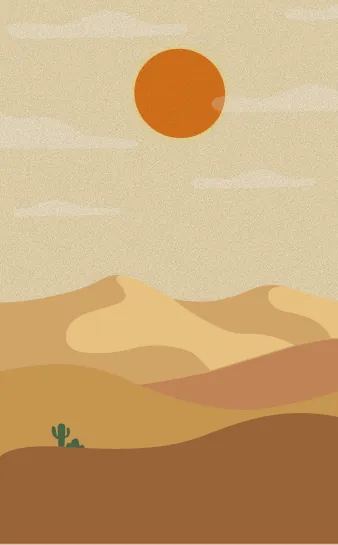
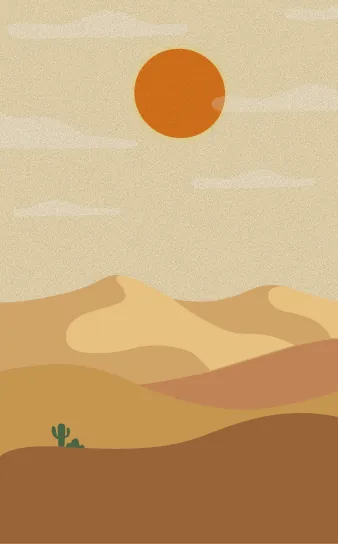
Normalize preset WebPs to 338x544 opaque VP8 and bump cache-buster

Changed region(s): [[0.0, 0.9688, 1.0, 1.0]]

diff --git a/presets.html b/presets.html
@@ -64,7 +64,7 @@
     <div class="preset-deck" role="group" aria-label="Lima preset Temaram">
       <button type="button" class="preset-poster-card is-active" data-preset-card="mystic-sanctum" aria-pressed="true" style="--preset-glow:#E09648;">
         <span class="preset-poster-frame">
-          <img src="assets/preset-art-mystic-sanctum.webp" alt="Mystic Sanctum" width="338" height="545" fetchpriority="high" decoding="async">
+          <img src="assets/preset-art-mystic-sanctum.webp?v=2" alt="Mystic Sanctum" width="338" height="544" fetchpriority="high" decoding="async">
         </span>
         <span class="preset-poster-meta">
           <span class="preset-poster-cat"><span class="preset-swatch" style="--preset-glow:#E09648;" aria-hidden="true"></span><span data-card-kicker>Relaksasi</span></span>
@@ -74,7 +74,7 @@
 
       <button type="button" class="preset-poster-card" data-preset-card="amber-study" aria-pressed="false" style="--preset-glow:#E6A45C;">
         <span class="preset-poster-frame">
-          <img src="assets/preset-art-amber-study.webp" alt="The Amber Study" width="338" height="545" decoding="async">
+          <img src="assets/preset-art-amber-study.webp?v=2" alt="The Amber Study" width="338" height="544" decoding="async">
         </span>
         <span class="preset-poster-meta">
           <span class="preset-poster-cat"><span class="preset-swatch" style="--preset-glow:#E6A45C;" aria-hidden="true"></span><span data-card-kicker>Fokus</span></span>
@@ -84,7 +84,7 @@
 
       <button type="button" class="preset-poster-card" data-preset-card="gentle-flow" aria-pressed="false" style="--preset-glow:#E08A3C;">
         <span class="preset-poster-frame">
-          <img src="assets/preset-art-gentle-flow.webp" alt="The Gentle Flow" width="338" height="544" decoding="async">
+          <img src="assets/preset-art-gentle-flow.webp?v=2" alt="The Gentle Flow" width="338" height="544" decoding="async">
         </span>
         <span class="preset-poster-meta">
           <span class="preset-poster-cat"><span class="preset-swatch" style="--preset-glow:#E08A3C;" aria-hidden="true"></span><span data-card-kicker>Tidur</span></span>
@@ -94,7 +94,7 @@
 
       <button type="button" class="preset-poster-card" data-preset-card="midnight-retouch" aria-pressed="false" style="--preset-glow:#F2C98A;">
         <span class="preset-poster-frame">
-          <img src="assets/preset-art-midnight-retouch.webp" alt="The Midnight Retouch" width="338" height="544" decoding="async">
+          <img src="assets/preset-art-midnight-retouch.webp?v=2" alt="The Midnight Retouch" width="338" height="544" decoding="async">
         </span>
         <span class="preset-poster-meta">
           <span class="preset-poster-cat"><span class="preset-swatch" style="--preset-glow:#F2C98A;" aria-hidden="true"></span><span data-card-kicker>Perawatan Diri</span></span>
@@ -104,7 +104,7 @@
 
       <button type="button" class="preset-poster-card" data-preset-card="under-the-sea" aria-pressed="false" style="--preset-glow:#1FA8D6;">
         <span class="preset-poster-frame">
-          <img src="assets/preset-art-under-the-sea.webp" alt="Under the Sea (Tifosi Edition)" width="339" height="544" decoding="async">
+          <img src="assets/preset-art-under-the-sea.webp?v=2" alt="Under the Sea (Tifosi Edition)" width="338" height="544" decoding="async">
         </span>
         <span class="preset-poster-meta">
           <span class="preset-poster-cat"><span class="preset-swatch" style="--preset-glow:#1FA8D6;" aria-hidden="true"></span><span data-card-kicker>Jurnal &amp; Sketsa</span></span>
@@ -118,7 +118,7 @@
     <section id="preset-detail" class="preset-detail-section" data-preset-detail aria-live="polite">
       <div class="preset-detail-grid">
         <div class="preset-detail-media" data-detail-media>
-          <img src="assets/preset-art-mystic-sanctum.webp" alt="Mystic Sanctum" width="338" height="545" fetchpriority="high" decoding="async">
+          <img src="assets/preset-art-mystic-sanctum.webp?v=2" alt="Mystic Sanctum" width="338" height="544" fetchpriority="high" decoding="async">
         </div>
 
         <div class="preset-detail-info">

diff --git a/temaram.html b/temaram.html
@@ -159,7 +159,7 @@
         <a href="presets.html?preset=amber-study" class="hi-card-link">
           <article class="hi-card">
             <div class="card-media">
-              <img src="assets/preset-art-amber-study.webp" alt="Ilustrasi gurun senja hangat untuk The Amber Study" width="338" height="545" loading="lazy" decoding="async">
+              <img src="assets/preset-art-amber-study.webp?v=2" alt="Ilustrasi gurun senja hangat untuk The Amber Study" width="338" height="544" loading="lazy" decoding="async">
             </div>
             <div class="card-meta">
               <div>
@@ -175,7 +175,7 @@
         <a href="presets.html?preset=mystic-sanctum" class="hi-card-link">
           <article class="hi-card">
             <div class="card-media">
-              <img src="assets/preset-art-mystic-sanctum.webp" alt="Ilustrasi perpustakaan bulat untuk Mystic Sanctum" width="338" height="545" loading="lazy" decoding="async">
+              <img src="assets/preset-art-mystic-sanctum.webp?v=2" alt="Ilustrasi perpustakaan bulat untuk Mystic Sanctum" width="338" height="544" loading="lazy" decoding="async">
             </div>
             <div class="card-meta">
               <div>
@@ -191,7 +191,7 @@
         <a href="presets.html?preset=midnight-retouch" class="hi-card-link">
           <article class="hi-card">
             <div class="card-media">
-              <img src="assets/preset-art-midnight-retouch.webp" alt="Ilustrasi ritual malam untuk The Midnight Retouch" width="338" height="544" loading="lazy" decoding="async">
+              <img src="assets/preset-art-midnight-retouch.webp?v=2" alt="Ilustrasi ritual malam untuk The Midnight Retouch" width="338" height="544" loading="lazy" decoding="async">
             </div>
             <div class="card-meta">
               <div>
@@ -207,7 +207,7 @@
         <a href="presets.html?preset=gentle-flow" class="hi-card-link">
           <article class="hi-card">
             <div class="card-media">
-              <img src="assets/preset-art-gentle-flow.webp" alt="Ilustrasi senja tenang untuk The Gentle Flow" width="338" height="544" loading="lazy" decoding="async">
+              <img src="assets/preset-art-gentle-flow.webp?v=2" alt="Ilustrasi senja tenang untuk The Gentle Flow" width="338" height="544" loading="lazy" decoding="async">
             </div>
             <div class="card-meta">
               <div>
@@ -223,7 +223,7 @@
         <a href="presets.html?preset=under-the-sea" class="hi-card-link">
           <article class="hi-card">
             <div class="card-media">
-              <img src="assets/preset-art-under-the-sea.webp" alt="Ilustrasi biru laut tenang untuk Under the Sea (Tifosi Edition)" width="339" height="544" loading="lazy" decoding="async">
+              <img src="assets/preset-art-under-the-sea.webp?v=2" alt="Ilustrasi biru laut tenang untuk Under the Sea (Tifosi Edition)" width="338" height="544" loading="lazy" decoding="async">
             </div>
             <div class="card-meta">
               <div>

diff --git a/presets-data.js b/presets-data.js
@@ -8,7 +8,7 @@ window.TLD_PRESETS = [
     rgb: '230, 164, 92',
     lightIntensity: 0.55,
     glowSoft: 'rgba(230, 164, 92, 0.15)',
-    image: 'assets/preset-art-amber-study.webp',
+    image: 'assets/preset-art-amber-study.webp?v=2',
     audioProfile: 'ambient-chord',
     title: 'The Amber Study',
     category: { id: 'Fokus', en: 'Focus' },
@@ -46,7 +46,7 @@ window.TLD_PRESETS = [
     rgb: '224, 150, 72',
     lightIntensity: 0.65,
     glowSoft: 'rgba(224, 150, 72, 0.15)',
-    image: 'assets/preset-art-mystic-sanctum.webp',
+    image: 'assets/preset-art-mystic-sanctum.webp?v=2',
     audioProfile: 'pink-library',
     title: 'Mystic Sanctum',
     category: { id: 'Relaksasi', en: 'Relax' },
@@ -84,7 +84,7 @@ window.TLD_PRESETS = [
     rgb: '242, 201, 138',
     lightIntensity: 0.45,
     glowSoft: 'rgba(242, 201, 138, 0.14)',
-    image: 'assets/preset-art-midnight-retouch.webp',
+    image: 'assets/preset-art-midnight-retouch.webp?v=2',
     audioProfile: 'piano-pad',
     title: 'The Midnight Retouch',
     category: { id: 'Perawatan Diri', en: 'Self-Care' },
@@ -122,7 +122,7 @@ window.TLD_PRESETS = [
     rgb: '224, 138, 60',
     lightIntensity: 0.20,
     glowSoft: 'rgba(224, 138, 60, 0.16)',
-    image: 'assets/preset-art-gentle-flow.webp',
+    image: 'assets/preset-art-gentle-flow.webp?v=2',
     audioProfile: 'rain-hush',
     title: 'The Gentle Flow',
     category: { id: 'Tidur', en: 'Sleep' },
@@ -160,7 +160,7 @@ window.TLD_PRESETS = [
     rgb: '31, 168, 214',
     lightIntensity: 0.35,
     glowSoft: 'rgba(31, 168, 214, 0.14)',
-    image: 'assets/preset-art-under-the-sea.webp',
+    image: 'assets/preset-art-under-the-sea.webp?v=2',
     audioProfile: 'brown-current',
     title: 'Under the Sea (Tifosi Edition)',
     category: { id: 'Jurnal & Sketsa', en: 'Journal & Sketch' },
